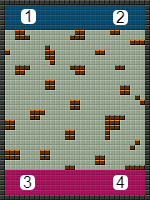
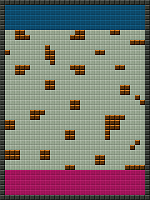
fixed the little issues that stopped the right buttons being visible when actions are taken and the game passed over to the other side.

diff --git a/public/js/ui/GameUIScene.js b/public/js/ui/GameUIScene.js
@@ -18,6 +18,7 @@ var GameUIScene = new Phaser.Class({
 		GameUIScene.text = this.add.text(0, 0, "", { fill: '#00ff00' }).setDepth(20);
 		
 		GameUIScene.mode_state = 0;
+		GameUIScene.mode_state_max = 9;
 		
 		GameUIScene.mode_check_state = 0;
 		GameUIScene.mode_check_timer = 0;
@@ -257,6 +258,10 @@ GameUIScene.loadFullButtons = (scene) => {
 
 GameUIScene.runAdvanceMode = () => {
 	GameUIScene.mode_state++;
+	if(GameUIScene.mode_state > GameUIScene.mode_state_max){
+		GameUIScene.mode_state = 0;
+	}
+	
 	GameUIScene.advanceMode()	
 }
 
@@ -301,7 +306,9 @@ GameUIScene.advanceMode = () => {
 			options.mode = "shoot"
 			GameUIScene.selectMode(options);
 			gameFunctions.btn_sprite[0].updateText("trigger shoot")
-			gameFunctions.btn_sprite[0].showButton();
+			if(gameFunctions.params.player_side === gameFunctions.current_side){
+				gameFunctions.btn_sprite[0].showButton();				
+			}
 			GameUIScene.mode_state++;
 			break;
 		case 3:
@@ -318,7 +325,9 @@ GameUIScene.advanceMode = () => {
 			options.mode = "charge"
 			GameUIScene.selectMode(options);
 			gameFunctions.btn_sprite[0].updateText("trigger charge")
-			gameFunctions.btn_sprite[0].showButton();
+			if(gameFunctions.params.player_side === gameFunctions.current_side){
+				gameFunctions.btn_sprite[0].showButton();				
+			}
 			GameUIScene.mode_state++;
 			break;
 		case 5:
@@ -337,7 +346,9 @@ GameUIScene.advanceMode = () => {
 			options.mode = "fight"
 			GameUIScene.selectMode(options);
 			gameFunctions.btn_sprite[0].updateText("trigger fight")
-			gameFunctions.btn_sprite[0].showButton();
+			if(gameFunctions.params.player_side === gameFunctions.current_side){
+				gameFunctions.btn_sprite[0].showButton();				
+			}
 			GameUIScene.mode_state++;
 			break;
 		case 7:
@@ -352,15 +363,18 @@ GameUIScene.advanceMode = () => {
 			options.mode = "end turn"
 			GameUIScene.selectMode(options);
 			gameFunctions.btn_sprite[0].updateText("end turn")
-			gameFunctions.btn_sprite[0].showButton();
+			if(gameFunctions.params.player_side === gameFunctions.current_side){
+				gameFunctions.btn_sprite[0].showButton();				
+			}
 			GameUIScene.mode_state++;
 			break;
 		case 9:
 			//activate end turn
 			GameScene.sfxHandler("end_turn")
-			GameUIScene.mode_state = 0;
-			GameUIScene.nextSide();
-			GameUIScene.advanceMode();
+			GameUIScene.mode_check_state = 1;
+			// GameUIScene.mode_state = 0;
+			// GameUIScene.advanceMode();
+			GameUIScene.nextSide();			
 			break;
 	}
 	

diff --git a/util/socket.js b/util/socket.js
@@ -122,13 +122,13 @@ exports.createRoom = async(network, data)  => {
 			//SEARCH FOR ROOM TO GET LINKED USER DATA
 			room = await queriesUtil.findRoom(room._id)
 			
-			let side = -1;
-			if(player_number === 0 || player_number === 1){
-				side = 0;
-			}
-			if(player_number === 2 || player_number === 3){
-				side = 1;
-			}			
+			// let side = -1;
+			// if(player_number === 0 || player_number === 1){
+			// 	side = 0;
+			// }
+			// if(player_number === 2 || player_number === 3){
+			// 	side = 1;
+			// }			
 			
 			let return_data;
 			
@@ -156,7 +156,7 @@ exports.createRoom = async(network, data)  => {
 				,max_players: room.config.max_players
 				,player_number: player_number
 				,max_sides: room.config.max_sides
-				,player_side: side
+				// ,player_side: side
 				,scene: "ArmySelectMenuScene"
 			}
 			network.socket.join(data.roomName)
@@ -258,13 +258,13 @@ exports.joinRoom = async(network, data)  => {
 			//SEARCH FOR ROOM TO GET LINKED USER DATA
 			saved_room = await queriesUtil.findRoom(saved_room._id)			
 
-			let side = -1;
-			if(player_number === 0 || player_number === 1){
-				side = 0;
-			}
-			if(player_number === 2 || player_number === 3){
-				side = 1;
-			}				
+			// let side = -1;
+			// if(player_number === 0 || player_number === 1){
+			// 	side = 0;
+			// }
+			// if(player_number === 2 || player_number === 3){
+			// 	side = 1;
+			// }				
 			
 			
 			//TRANSITION TO THE NEXT GAME SCREEN
@@ -291,7 +291,7 @@ exports.joinRoom = async(network, data)  => {
 				,max_players: saved_room.config.max_players
 				,player_number: player_number
 				,max_sides: saved_room.config.max_sides
-				,player_side: side
+				// ,player_side: side
 				,has_saved_data: has_saved_data
 				// ,room: saved_room
 				,scene: next_scene

diff --git a/public/js/ui/ArmySelectUIScene.js b/public/js/ui/ArmySelectUIScene.js
@@ -47,6 +47,18 @@ var ArmySelectUIScene = new Phaser.Class({
         character_form.setAlpha(0)
         character_form.addListener('click');
 		// console.log(character_form)
+		
+		//CHANGE THE IMAGE TO REFLECT THE CURRENT MAX PLAYER SETUP
+		let id = '#map img';
+		if(gameFunctions.params.max_players <= 2){
+			$(id).attr('src','/img/maps/map2 (1v1).png');
+		}
+		if(gameFunctions.params.max_players === 4){
+			$(id).attr('src','/img/maps/map2 (2v2).png');
+		}		
+
+		
+		
         
         //ADD CLICK FUNCTIONALITY TO THE CHARACTER SELECTOR
         character_form.on('click', function (event) {
@@ -156,6 +168,8 @@ var ArmySelectUIScene = new Phaser.Class({
 				connFunctions.messageServer(data)
 				
 			}			
+			
+			
 			
             if (event.target.name === 'start')
             {        
@@ -287,7 +301,8 @@ ArmySelectUIScene.addPlayer = (options) => {
 
 	let dropdown_starts = "";
 	for(let i=0;i<options.starts;i++){
-		dropdown_starts += '<option value="'+i+'">'+i+'</option>'
+		let print_value = i+1
+		dropdown_starts += '<option value="'+i+'">'+print_value+'</option>'
 	}		
 	
 	//ONLY ALLOW SIDE SELECTION FOR PLAYER WHO CREATED THE GAME

diff --git a/public/js/connFunctions.js b/public/js/connFunctions.js
@@ -89,7 +89,7 @@ connFunctions.setRoomInfo = (data) => {
 	// gameFunctions.params.user_name = data.user_name
 	gameFunctions.params.player_number = data.player_number
 	gameFunctions.params.max_players = data.max_players
-	gameFunctions.params.player_side = data.player_side
+	// gameFunctions.params.player_side = data.player_side
 	gameFunctions.params.max_sides = data.max_sides	
 	
 	if(data.has_saved_data === true){
@@ -116,6 +116,16 @@ connFunctions.updateRoomInfo = (data) => {
 		// if(data.parameters.value){
 		try{
 			gameFunctions.params.forces[data.parameters.player_number][data.parameters.subtype] = data.parameters.value
+			
+			if(data.parameters.player_number === gameFunctions.params.player_number){
+				switch(data.parameters.subtype){
+					case 'side':
+						gameFunctions.params.player_side = gameFunctions.params.forces[data.parameters.player_number][data.parameters.subtype]
+						break;
+				}				
+			}
+
+			
 			ArmySelectUIScene.updateSelections(data.parameters)
 		}catch(err){
 			console.log("couldn't update selection")

diff --git a/public/html/character_form.html b/public/html/character_form.html
@@ -98,7 +98,7 @@
 	
 	<div class="box">
 		
-		<div class="rect" id="map"><img src="/img/maps/map2.png" alt="map 2"></div>
+		<div class="rect" id="map"><img src="/img/maps/map2.png" alt="map image"></div>
 
 		<div class="players">
 			
